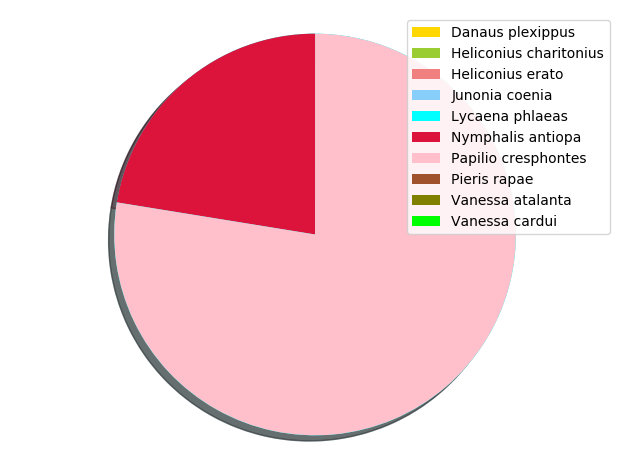
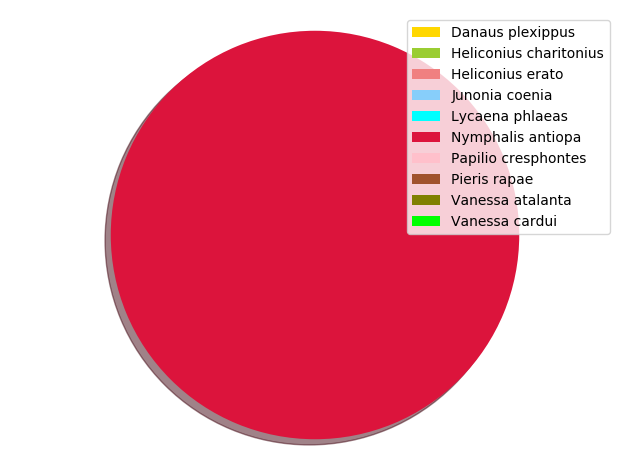
Now runs the categorisation on prediction requests

diff --git a/templates/home.html b/templates/home.html
@@ -64,7 +64,7 @@
             top: 50%;
             left: 50%;
             margin-top: 50px;
-            margin-left: -430px;
+            margin-left: -573px;
         }
     </style>
 
@@ -83,6 +83,8 @@
             <a href="/predict"><button class="homeButtons">Predict</button></a>
             &nbsp;&nbsp;&nbsp;&nbsp;
             <a href="/contribute"><button class="homeButtons">Contribute</button></a>
+            &nbsp;&nbsp;&nbsp;&nbsp;
+            <a href="/results"><button class="homeButtons">Results</button></a>
         </center>
         <br>
     </div>

diff --git a/templates/results.html b/templates/results.html
@@ -25,7 +25,12 @@
         <td>{{ result.Name }}</td>
         <td>{{ result.Email }}</td>
         <td><a href="/static/img/{{ result.FileName }}">{{ result.FileName }}</a></td>
-        <td><a href="/static/img/{{ result.FileName }}">{{ result.FileName }}</a></td>
+        {% if result.Outcome == 'Not Yet Classified' %}
+            <td><a href="/static/nograph.png">{{ result.Outcome }}</a></td>
+        {% else %}
+            <td><a href="/static/results/{{ result.Outcome }}">{{ result.Outcome }}</a></td>
+        {% endif %}
+
     </tr>
     {% endfor %}
 

diff --git a/templates/includes/_navbar.html b/templates/includes/_navbar.html
@@ -21,6 +21,9 @@
             <li class="nav-item active">
                 <a class="nav-link" href="/contribute">Contribute</a>
             </li>
+            <li class="nav-item active">
+                <a class="nav-link" href="/results">Results</a>
+            </li>
         </ul>
     </div>
 </nav>

diff --git a/app.py b/app.py
@@ -5,12 +5,15 @@ from flask_wtf import FlaskForm
 from flask_wtf.file import FileField, FileRequired, FileAllowed
 from wtforms import SubmitField
 import sqlite3
+from threading import Thread 
 
-from cnn import NNet
+#from cnn import NNet
 
-path_to_db = 'db/predictions.db'
+from databasehelper import database_object
+from dbrunner import DB_Runner
 
-nnet = NNet()
+
+#nnet = NNet()
 
 app = Flask(__name__)
 
@@ -43,7 +46,7 @@ class PredictionDetails(Form):
     photo = FileField('Photo', validators=[FileAllowed(photos, u'Image only!'), FileRequired(u'File was empty!')])
     name = TextField('Name:', validators=[validators.required()])
     email = TextField('Email:', validators=[validators.required()])
-    actualTag = SelectField("Tag", choices=species_choices)
+    # actualTag = SelectField("Tag", choices=species_choices)
     
 @app.route('/predict', methods=['GET', 'POST'])
 def predict():
@@ -55,46 +58,10 @@ def predict():
         filename = photos.save(request.files['photo'])
         print(name, email, filename)
         db.add_prediction_to_db(name,email,filename)
-        
-        #nnet.run_train()
-        # return filename
+        dbrunner = DB_Runner()
+    
     return render_template('predict.html', form=form)
 
-
-class database_object():
-
-    def create_connection(self):
-        self.conn = sqlite3.connect(path_to_db)
-
-    def create_table(self):
-        self.create_connection()
-        c = self.conn.cursor()
-        c.execute("""CREATE TABLE IF NOT EXISTS predictions(
-            time TEXT,
-            name TEXT,
-            email TEXT,
-            fileLocation TEXT
-        );""")
-        self.conn.commit()
-        self.conn.close()
-
-    def add_prediction_to_db(self, name, email,filename):
-        self.create_connection()
-        c = self.conn.cursor()
-        c.execute("INSERT INTO predictions(time,name, email,fileLocation) VALUES(CURRENT_TIMESTAMP, '" + name + "','" + email + "','" + filename + "');")
-        self.conn.commit()
-        self.conn.close()
-
-    def get_all_entries(self):
-        self.create_connection()
-        c = self.conn.cursor()
-        cur = c.execute("SELECT * FROM predictions")
-        Results = [dict(Time=row[0],
-                    Name=row[1],
-                    Email=row[2],
-                    FileName=row[3]) for row in cur.fetchall()]
-        self.conn.close()
-        return Results
 
 
 if __name__ == '__main__':

diff --git a/databasehelper.py b/databasehelper.py
@@ -1,0 +1,51 @@
+import sqlite3
+
+
+
+class database_object():
+
+    def __init__(self):
+        self.path_to_db = 'db/predictions.db'
+
+    def create_connection(self):
+        self.conn = sqlite3.connect(self.path_to_db)
+
+    def create_table(self):
+        self.create_connection()
+        c = self.conn.cursor()
+        c.execute("""CREATE TABLE IF NOT EXISTS predictions(
+            time TEXT,
+            name TEXT,
+            email TEXT,
+            fileLocation TEXT,
+            outcome TEXT
+        );""")
+        self.conn.commit()
+        self.conn.close()
+
+    def add_prediction_to_db(self, name, email,filename):
+        self.create_connection()
+        c = self.conn.cursor()
+        c.execute("INSERT INTO predictions(time,name,email,fileLocation,outcome) VALUES(CURRENT_TIMESTAMP, '" + name + "','" + email + "','" + filename + "','Not Yet Classified');")
+        self.conn.commit()
+        self.conn.close()
+
+    def get_all_entries(self):
+        self.create_connection()
+        c = self.conn.cursor()
+        cur = c.execute("SELECT * FROM predictions")
+        Results = [dict(Time=row[0],
+                    Name=row[1],
+                    Email=row[2],
+                    FileName=row[3],
+                    Outcome=row[4]) for row in cur.fetchall()]
+        self.conn.close()
+        return Results
+
+    def set_new_outcome(self, newfilename, time):
+        self.create_connection()
+        c = self.conn.cursor()
+        print("UPDATE predictions SET outcome ='" + newfilename + "' WHERE time ='" + time + "');")
+        c.execute("UPDATE predictions SET outcome ='" + newfilename + "' WHERE time ='" + time + "';")
+        self.conn.commit()
+        self.conn.close()

diff --git a/cnn.py b/cnn.py
@@ -102,7 +102,7 @@ class NNet:
         print(self.pred)
 
 
-    def make_pie_chart(self):
+    def make_pie_chart(self,filename):
         self.labels = ['Danaus plexippus', 'Heliconius charitonius', 'Heliconius erato', 'Junonia coenia', 'Lycaena phlaeas',
                   'Nymphalis antiopa', 'Papilio cresphontes', 'Pieris rapae',
                   'Vanessa atalanta', 'Vanessa cardui']
@@ -114,7 +114,7 @@ class NNet:
         plt.legend(self.patches, self.labels, loc="best")
         plt.axis('equal')
         plt.tight_layout()
-        plt.savefig('IMG/last_pie.png',bbox_inches='tight')
+        plt.savefig('static/results/output_'+ filename +'.png',bbox_inches='tight')
 
     def load_image(self, img_path, show=False):
         img = image.load_img(img_path, target_size=(64, 64))
@@ -137,4 +137,7 @@ class NNet:
         self.gen_train_test()
         self.fit_data_to_model()
 
-# if __name__ == '__main__':
+if __name__ == '__main__':
+    nnet = NNet()
+    # nnet.make_prediction_on_model("3.jpg")
+    nnet.run_train()

diff --git a/dbrunner.py b/dbrunner.py
@@ -1,0 +1,31 @@
+from cnn import NNet
+from databasehelper import database_object
+import time
+import threading
+
+class DB_Runner():
+
+    def __init__(self):
+        self.db = database_object()
+        self.nnet = NNet()
+        self.nnet.load_model("newmodel.h5")
+        self.runner()        
+
+    def runner(self):
+        cur = self.db.get_all_entries()
+        for i in range(0,len(cur)):
+            print(cur[i]['Outcome'])
+            if cur[i]['Outcome'] == 'Not Yet Classified':
+                imgname = cur[i]['FileName']
+                self.nnet.make_prediction_on_model("static/img/"+imgname)
+                self.nnet.make_pie_chart(imgname)
+                self.db.set_new_outcome('output_'+ imgname +'.png',cur[i]['Time'])
+
+
+if __name__ == '__main__':
+    dbrun = DB_Runner()
+                
+
+
+
+

diff --git a/start.py b/start.py
@@ -32,6 +32,7 @@ class Mainwindow():
         """
         if nn.possible_to_run == True:
             nn.make_prediction_on_model(self.comparison_image)
+            print(self.comparison_image)
             nn.make_pie_chart()
 
             self.graph_image =  QImage("IMG/last_pie.png")
